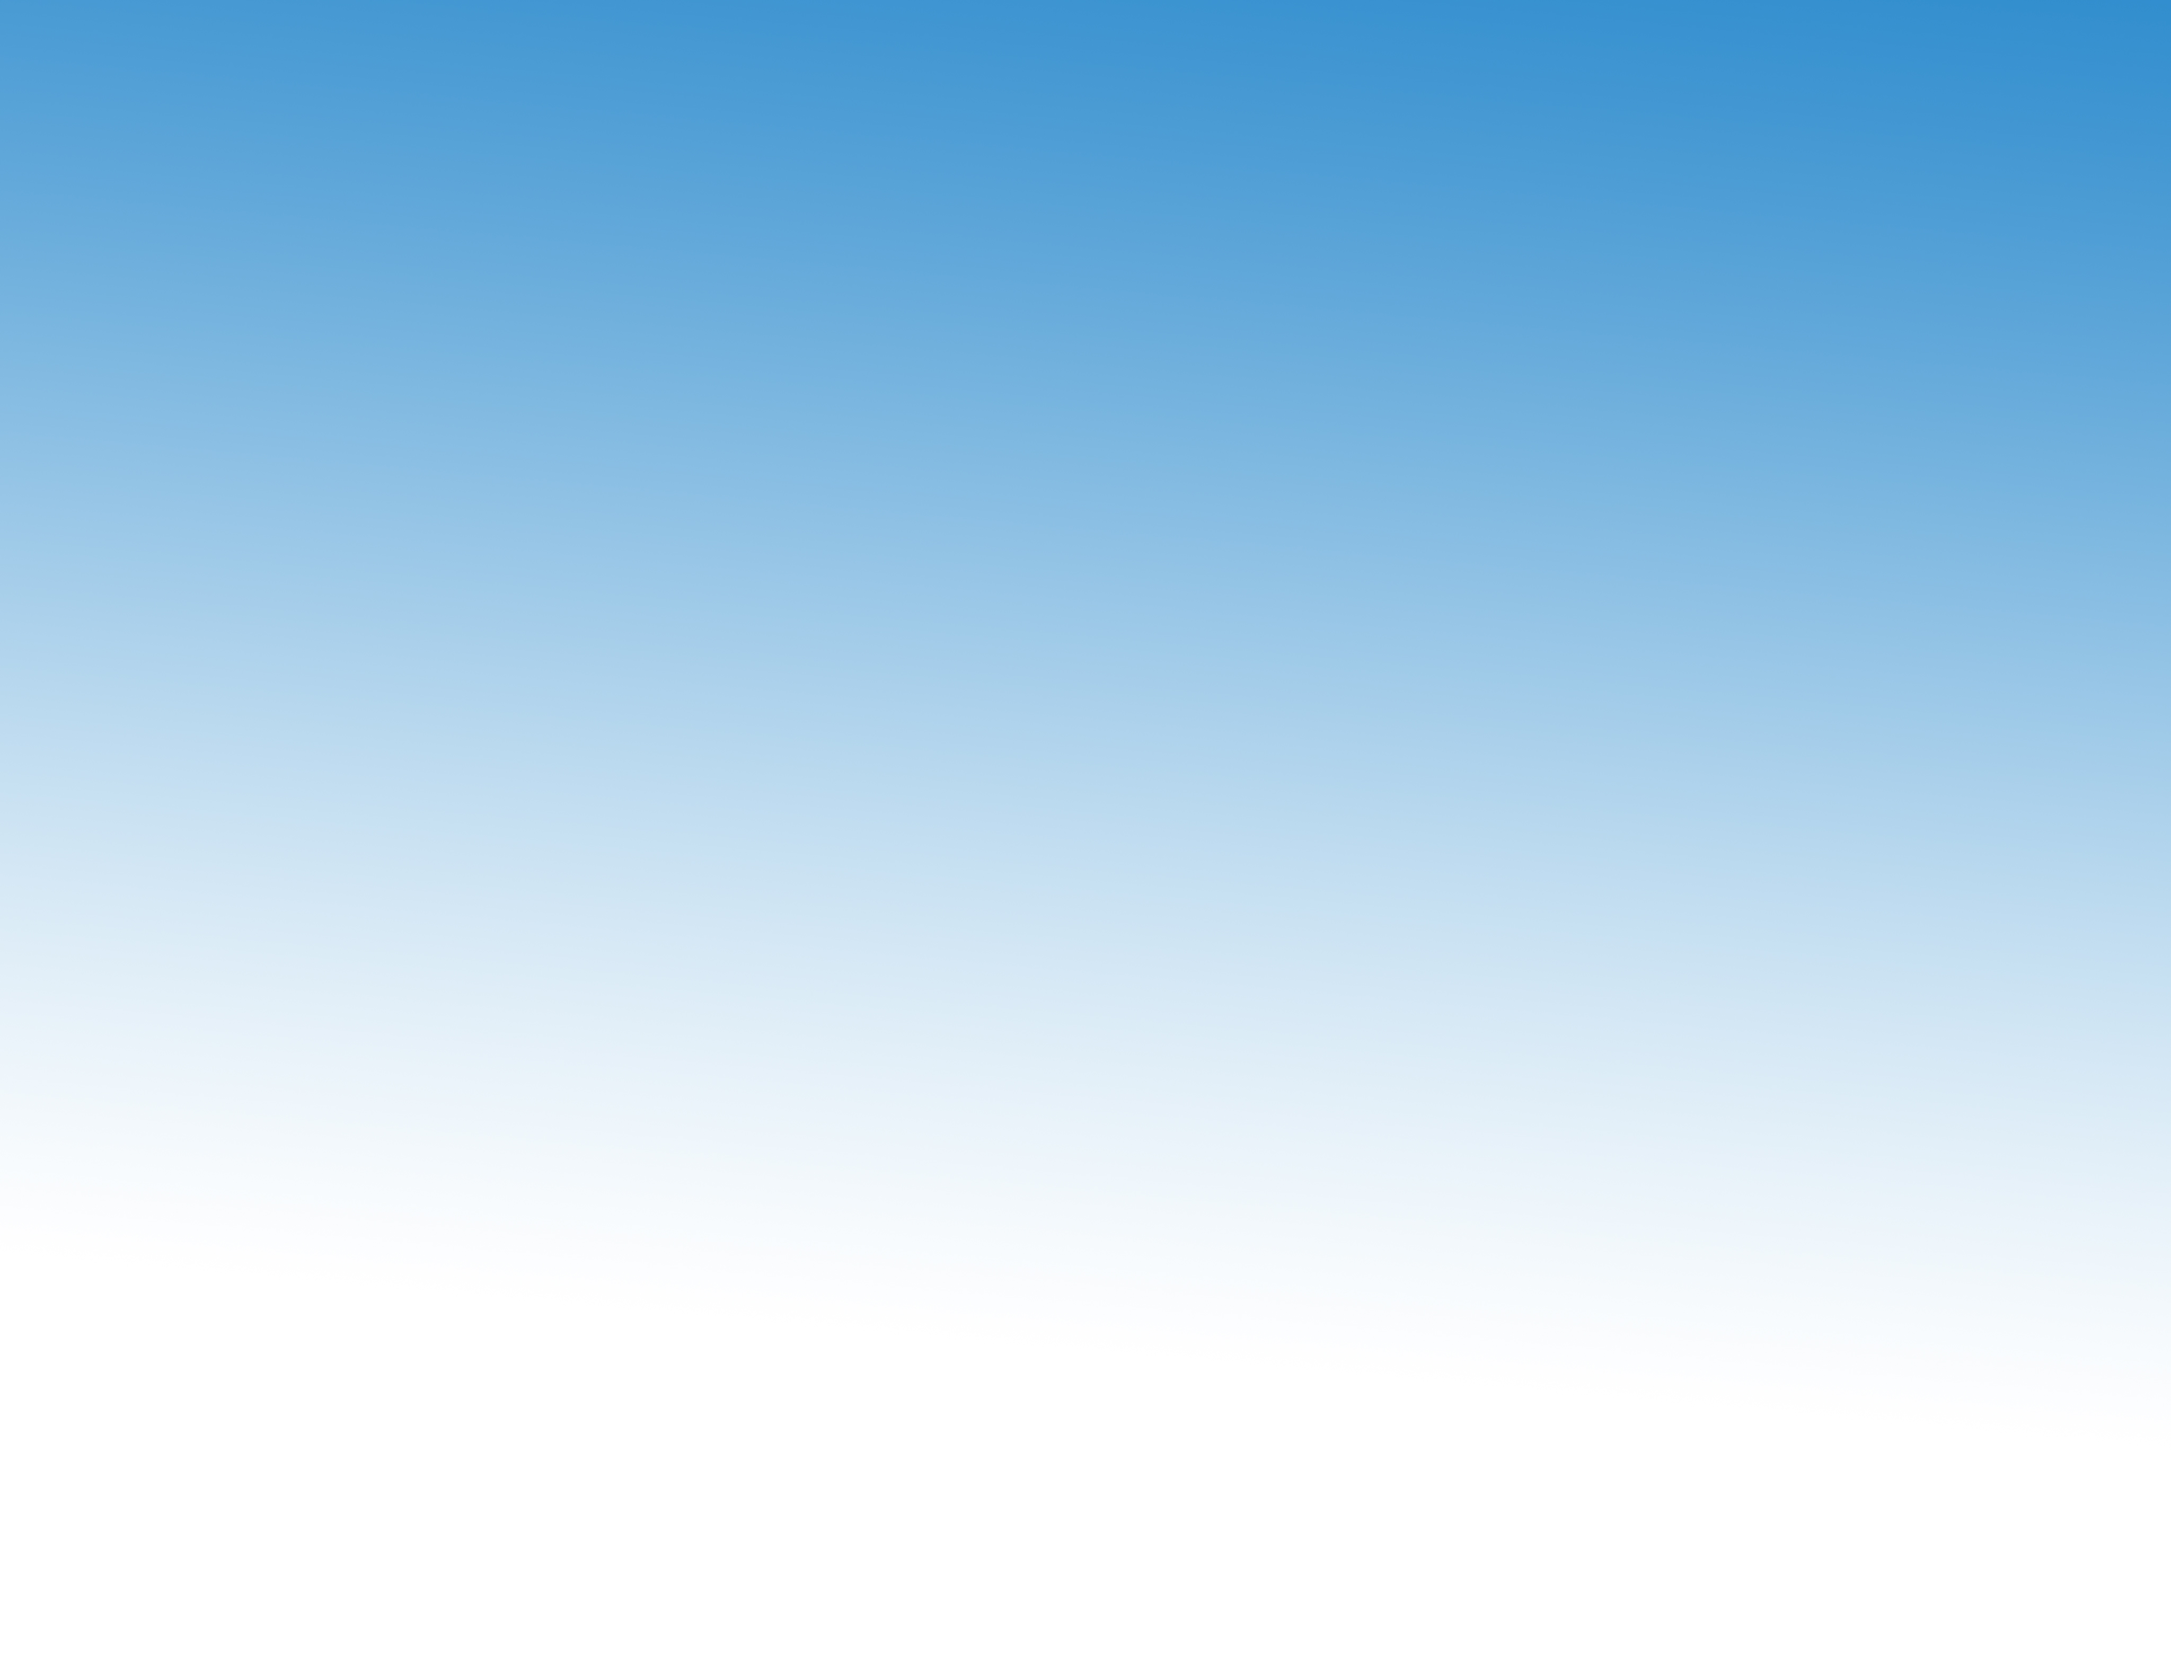
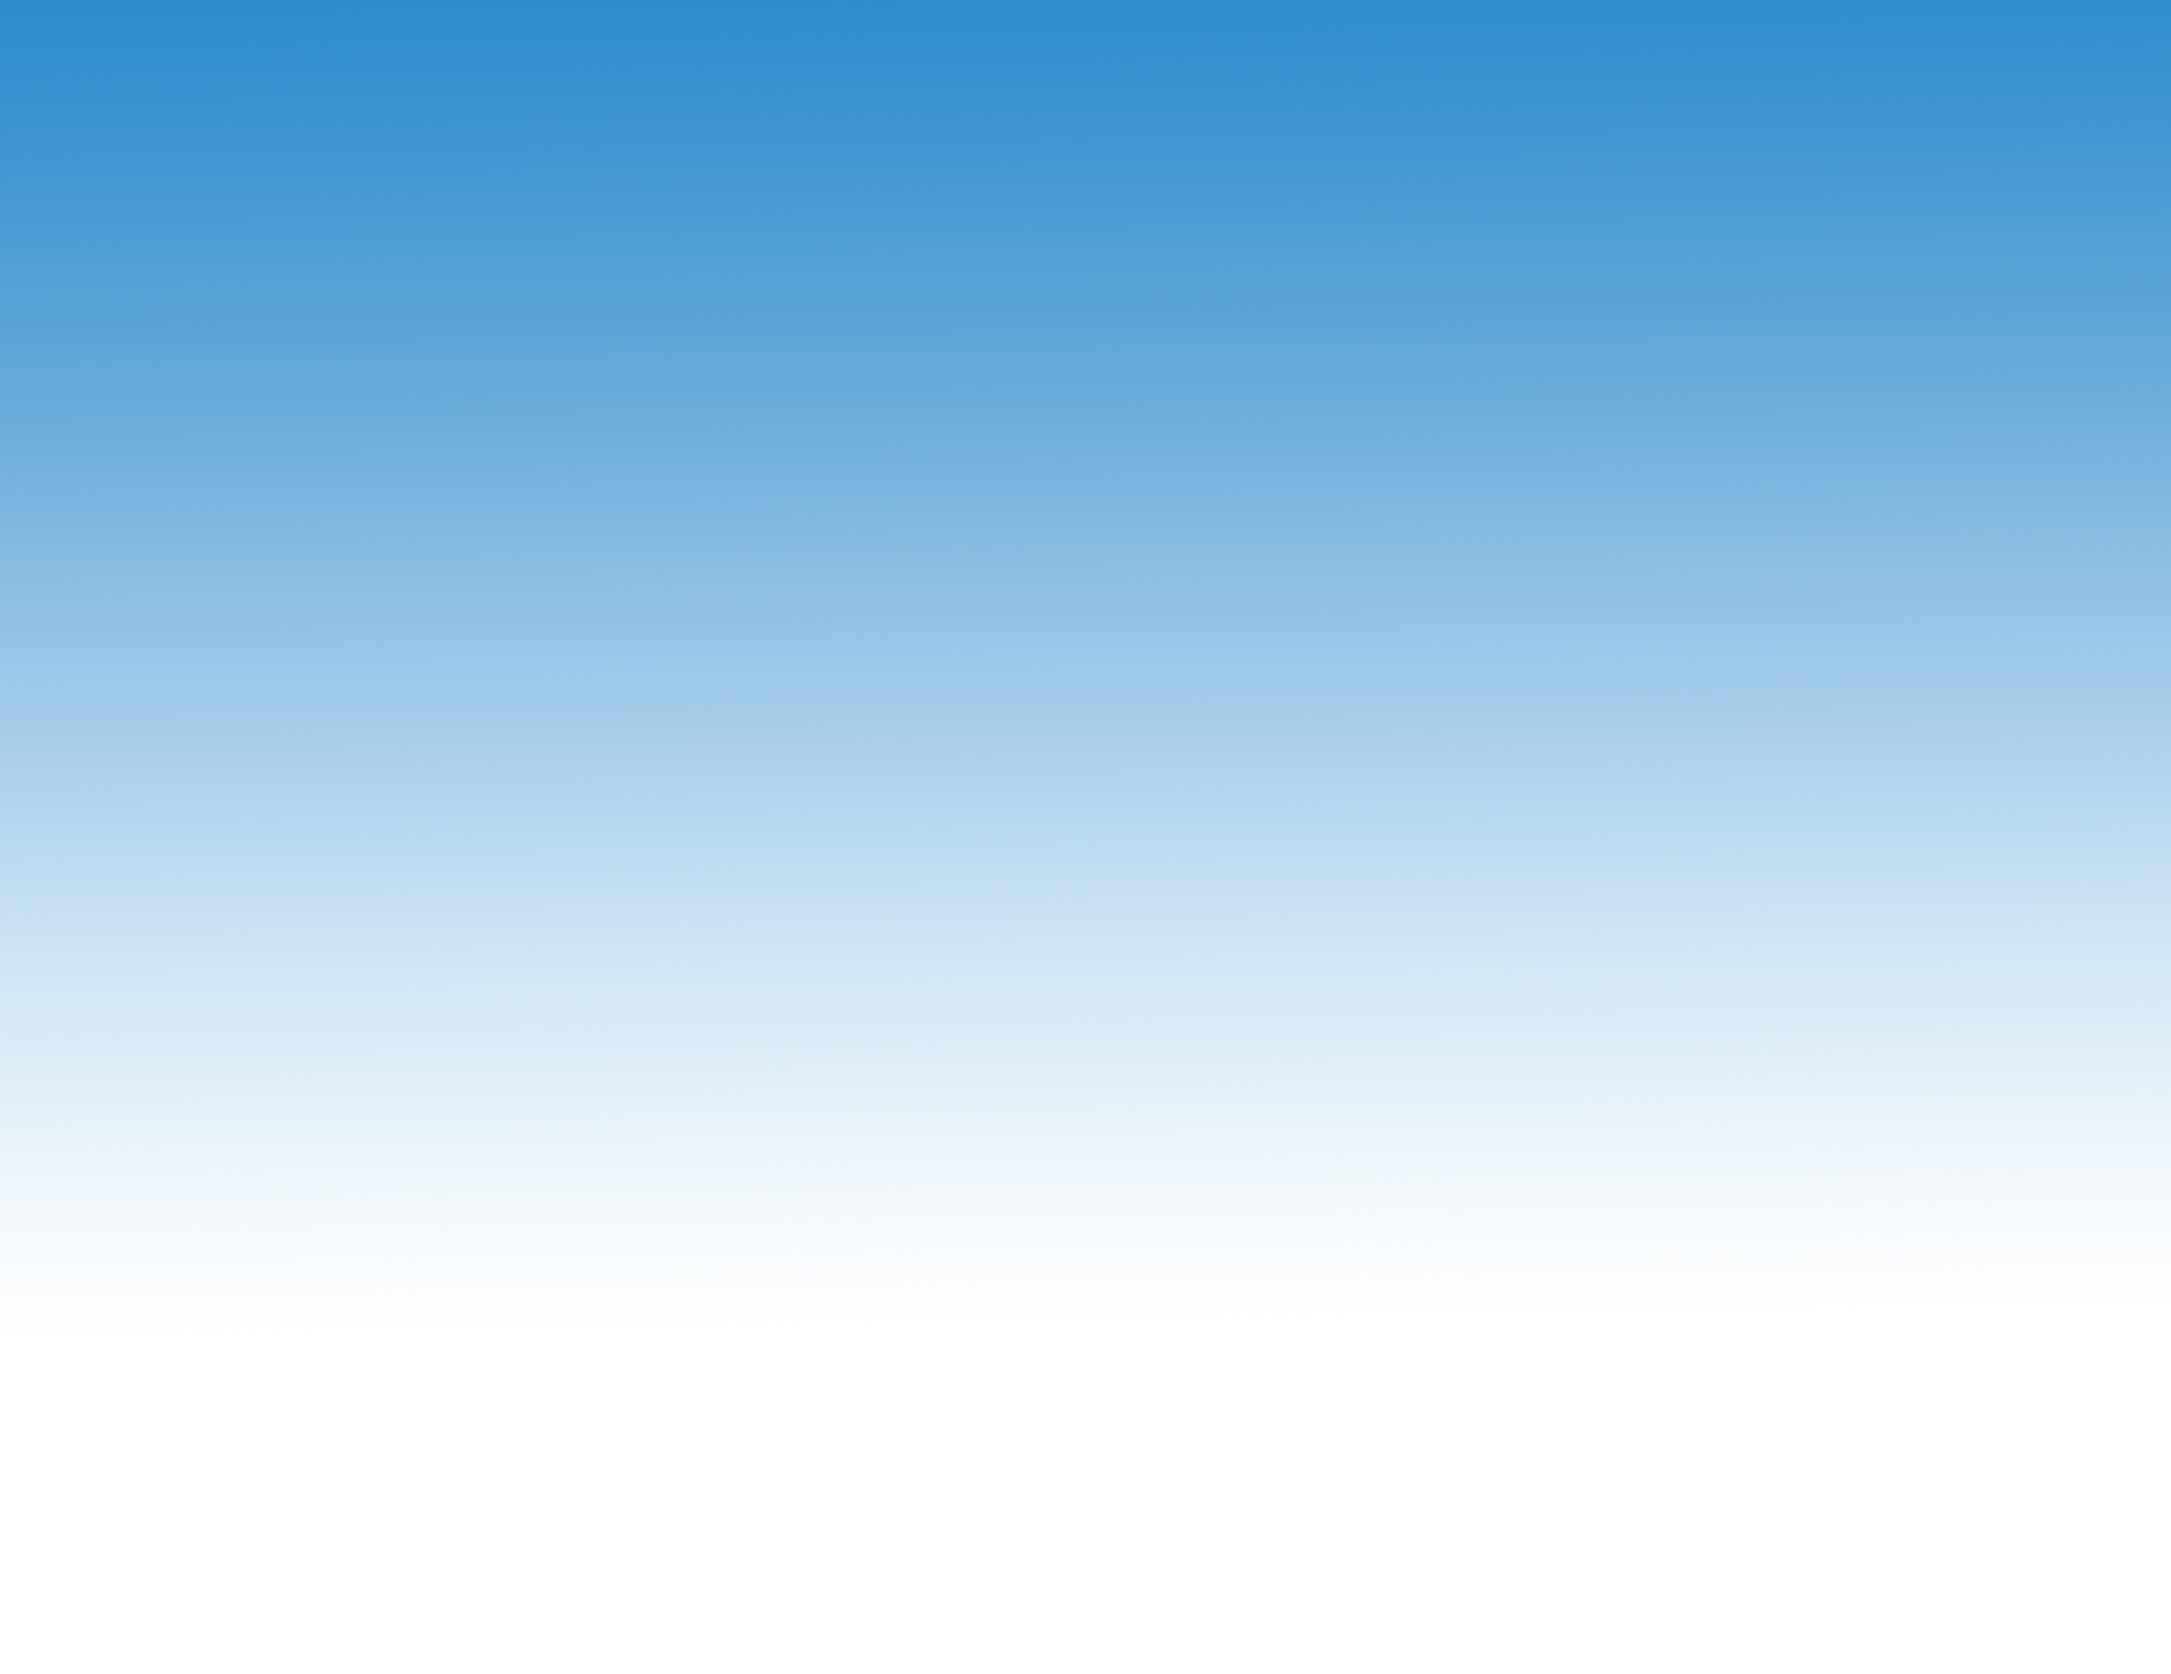
test

Changed region(s): [[0.0, 0.0, 0.2188, 0.4653]]

diff --git a/templates/homepage.html b/templates/homepage.html
@@ -1,0 +1,72 @@
+<!DOCTYPE html>
+<html>
+<head>
+  <meta charset="utf-8">
+  <title>Crave</title>
+  <link rel="stylesheet" href="../styles/style.css">
+</head>
+<body>
+
+  <form action = "/" method = "post">
+    <div class="grid-container">
+      <div class="intro">
+        <h2 id="intro">Choose what you don't want:</h2>
+      </div>
+      <div id="meat">
+        <h3>Meats:</h3>
+        <input type="checkbox" value="beef" name="restrictions">
+        <label for="beef">Beef</label> <br>
+        <input type="checkbox" value="pork" name="restrictions">
+        <label for="beef">Pork</label> <br>
+        <input type="checkbox" value="bacon" name="restrictions">
+        <label for="beef">Bacon</label> <br>
+        <input type="checkbox" value="chicken" name="restrictions"/>
+        <label for="beef">Chicken</label> <br>
+        <input type="checkbox" value="salmon" name="restrictions"/>
+        <label for="beef">Salmon</label> <br>
+      </div>
+
+      <div id="Veggies">
+        <h3>Vegetables:</h3>
+        <input type="checkbox" value="onions" name="restrictions"/>
+        <label for="onions">Onions</label> <br>
+        <input type="checkbox" value="broccoli" name="restrictions"/>
+        <label for="broccoli">Brocolli</label> <br>
+        <input type="checkbox" value="tomato" name="restrictions"/>
+        <label for="tomato">Tomato</label> <br>
+        <input type="checkbox" value="olives" name="restrictions"/>
+        <label for="olives">Olives</label> <br>
+        <input type="checkbox" value="lettuce" name="restrictions"/>
+        <label for="lettuce">Lettuce</label> <br>
+      </div>
+
+      <div id="health">
+        <h3>Dietary Restriction:</h3>
+        <input type="checkbox" value="Vegetarian" name="health"/>
+        <label for="diet">Vegetarian</label> <br>
+        <input type="checkbox" value="sugar-conscious" name="health"/>
+        <label for="diet">Sugar-Conscious</label> <br>
+        <input type="checkbox" value="vegan" name="health"/>
+        <label for="diet">Vegan</label> <br>
+        <input type="checkbox" value="peanut-free" name="health"/>
+        <label for="diet">Peanut-Free</label> <br>
+        <input type="checkbox" value="tree-nut-free" name="health"/>
+        <label for="diet">Tree-Nut-Free</label> <br>
+        <input type="checkbox" value="alcohol" name="health"/>
+        <label for="diet">Alcohol</label> <br>
+      </div>
+    </div>
+
+    <div class = "txt">
+      <input id="input" type="text" name="foodName" value="" size="35">
+      <br><br>
+      <select name = "calories">
+        <option value=""></option>
+      </select>
+
+    </div>
+      <input class= "button" type="submit" value="Enter" size="20">
+  </form>
+
+</body>
+</html>

diff --git a/styles/about.css b/styles/about.css
@@ -18,6 +18,9 @@
 }
 
 body{
+  background-image: url('../images/background_3.jpg');
+  background-size: 100vw 100vh;
+  background-repeat: no-repeat;
 
 }
 
